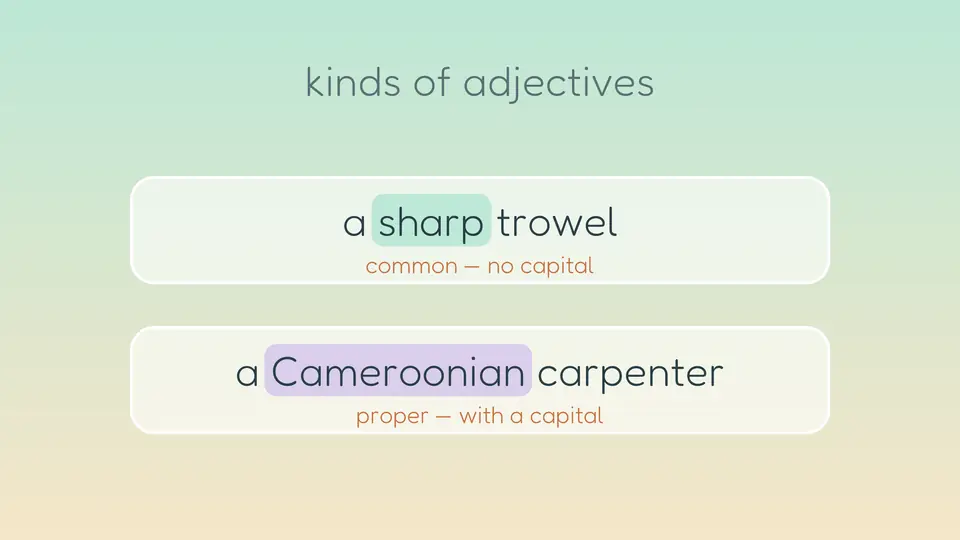
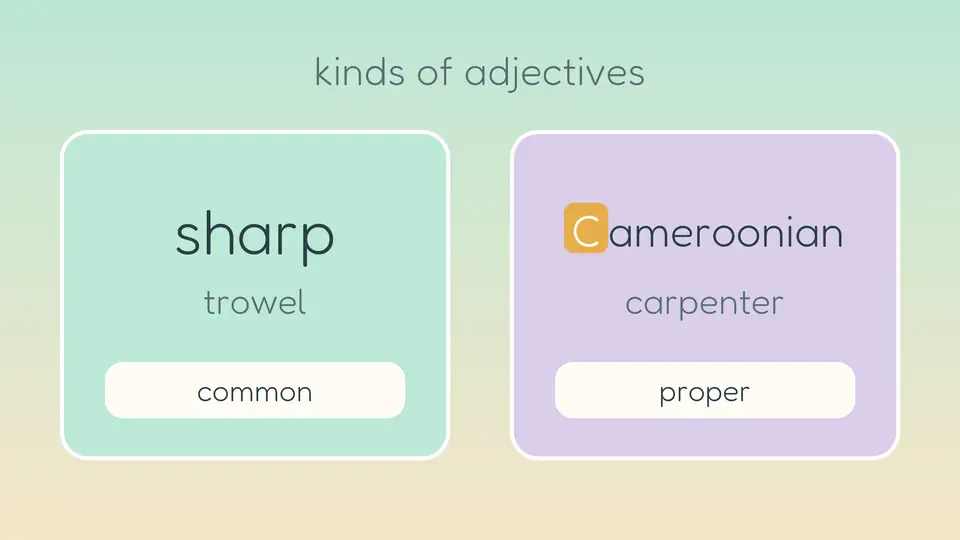
Une couverture qui ne se lit pas en vignette n'annonce rien
Les deux couvertures d'anglais étaient faites de texte fin sur fond
pastel. En grand elles se lisaient très bien ; à cent douze pixels de
large — la taille réelle d'une vignette de carte — elles devenaient deux
rectangles vides, et c'est pourtant à ça que l'enfant reconnaît sa leçon
dans la liste.

Elles sont refaites en masses de couleur : deux blocs pleins pour les
adjectifs, quatre grosses tuiles pour les nombres. Vérifié à la taille
d'affichage, pas seulement en grand.

Et la majuscule de « Cameroonian » est maintenant mise en valeur À SA
PLACE dans le mot : la pastille dorée posée à côté recouvrait le C
qu'elle était censée montrer.

diff --git a/work/figures-anglais.py b/work/figures-anglais.py
@@ -267,25 +267,33 @@ def an_syllabes(t):
 # ───────────────────────── leçon 2 : les adjectifs ────────────────────────
 
 def an_adjectifs(t):  # 960x540
-    t.texte((480, 80), 'kinds of adjectives', 42, INK_2)
-    for i, (phrase, mot, ton, note) in enumerate((
-        ('a sharp trowel', 'sharp', MINT, 'common — no capital'),
-        ('a Cameroonian carpenter', 'Cameroonian', LILAC, 'proper — with a capital'),
+    # Deux blocs de couleur pleins, pas deux lignes de texte : à la taille
+    # d’une vignette de carte, une phrase fine disparaît et l’enfant ne
+    # reconnaît plus sa leçon.
+    t.texte((480, 70), 'kinds of adjectives', 40, INK_2)
+    for i, (mot, nom, ton, note) in enumerate((
+        ('sharp', 'trowel', MINT, 'common'),
+        ('Cameroonian', 'carpenter', LILAC, 'proper'),
     )):
-        cy = 230 + i * 150
-        t.rrect(130, cy - 54, 830, cy + 54, 24, fill=(255, 255, 255, 150),
-                bord=(255, 255, 255), trait=3)
-        avant, apres = phrase.split(mot)
-        pol = 42
-        la = t.pol(pol).getlength(avant) / fm.S
-        lm = t.pol(pol).getlength(mot) / fm.S
-        lb = t.pol(pol).getlength(apres) / fm.S
-        x = 480 - (la + lm + lb) / 2
-        t.texte((x, cy - 10), avant, pol, INK, 'lm')
-        t.rrect(x + la - 6, cy - 36, x + la + lm + 6, cy + 16, 12, fill=ton)
-        t.texte((x + la + lm / 2, cy - 10), mot, pol, INK)
-        t.texte((x + la + lm, cy - 10), apres, pol, INK, 'lm')
-        t.texte((480, cy + 34), note, 24, CLAY)
+        x0 = 60 + i * 450
+        t.rrect(x0, 130, x0 + 390, 460, 28, fill=ton, bord=(255, 255, 255), trait=4)
+        taille = 64 if len(mot) <= 7 else 44
+        if i == 1:
+            # La majuscule est tout le sujet : on la met en valeur À SA PLACE
+            # dans le mot. Une pastille posée à côté recouvrait le C au lieu
+            # de le montrer.
+            tete, reste = mot[0], mot[1:]
+            lt = t.pol(taille).getlength(tete) / fm.S
+            lr = t.pol(taille).getlength(reste) / fm.S
+            x = x0 + 195 - (lt + lr) / 2
+            t.rrect(x - 8, 230 - taille * 0.62, x + lt + 6, 230 + taille * 0.52,
+                    10, fill=GOLD)
+            t.texte((x + lt / 2 - 1, 230), tete, taille, WHITE_WARM)
+            t.texte((x + lt + 6, 230), reste, taille, INK, 'lm')
+        else:
+            t.texte((x0 + 195, 230), mot, taille, INK)
+        t.texte((x0 + 195, 300), nom, 36, INK_2)
+        fs._etiquette(t, x0 + 195, 390, 300, 56, note, 30, WHITE_WARM)
 
 
 def an_adjectif(t):
@@ -332,11 +340,14 @@ def an_propres(t):
 # ───────────────────────── leçon 3 : les nombres ──────────────────────────
 
 def an_nombres(t):  # 960x540
-    t.texte((480, 86), 'numbers 251 to 300', 42, INK_2)
+    # Les tuiles portent la vignette à elles seules : trois gros chiffres se
+    # lisent encore à cent pixels de large, une phrase non.
+    t.texte((480, 66), 'numbers 251 to 300', 38, INK_2)
     for i, c in enumerate('251'):
-        fm._tuile(t, 360 + i * 120, 250, 100, 130, c, 84, (WHITE_WARM, SAND, MINT)[i])
-    t.texte((480, 400), 'two hundred and fifty-one', 38, INK)
-    t.texte((480, 470), 'the hyphen joins the tens and the units', 26, CLAY)
+        fm._tuile(t, 300 + i * 180, 270, 160, 220, c, 140, (WHITE_WARM, SAND, MINT)[i])
+    fm._tuile(t, 790, 270, 120, 220, '…', 80, LILAC, INK_2)
+    t.texte((480, 440), 'two hundred and fifty-one', 36, INK)
+    t.texte((480, 492), 'up to three hundred', 26, CLAY)
 
 
 def an_lire(t):
